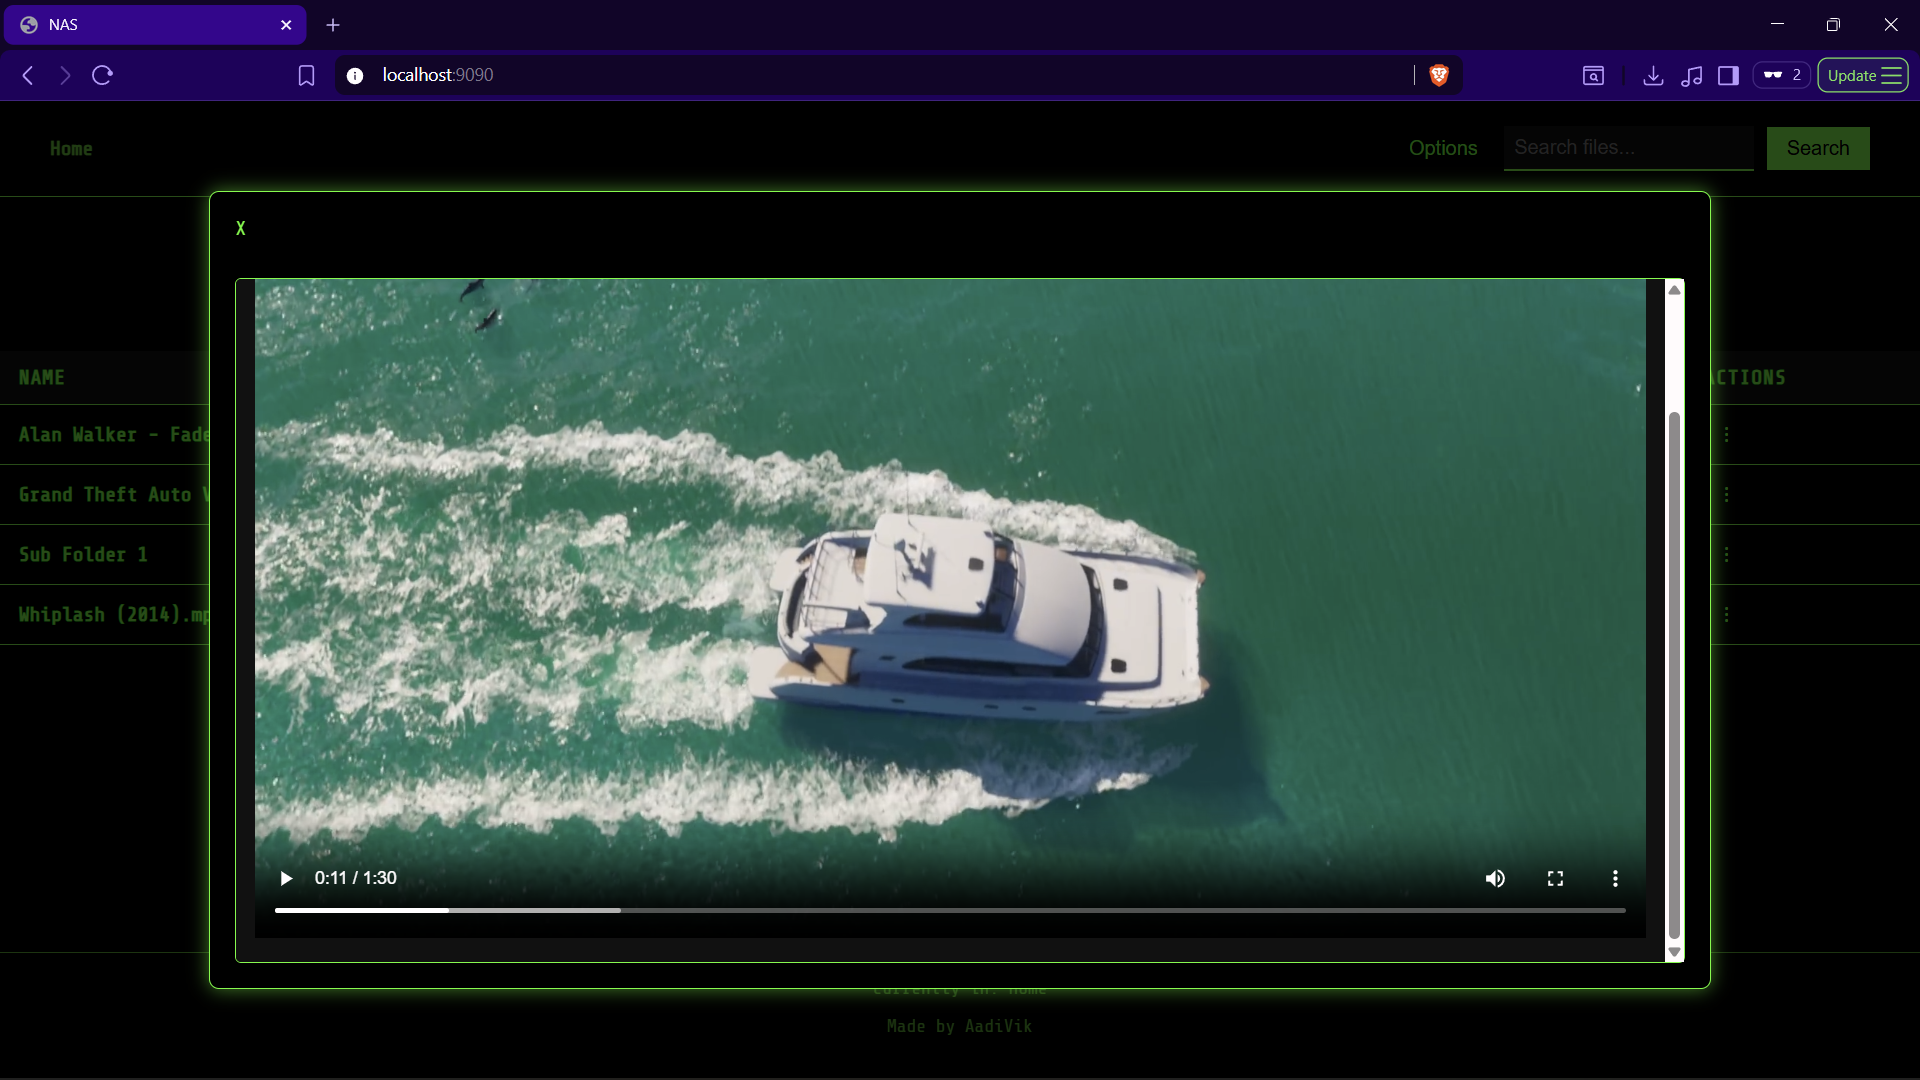
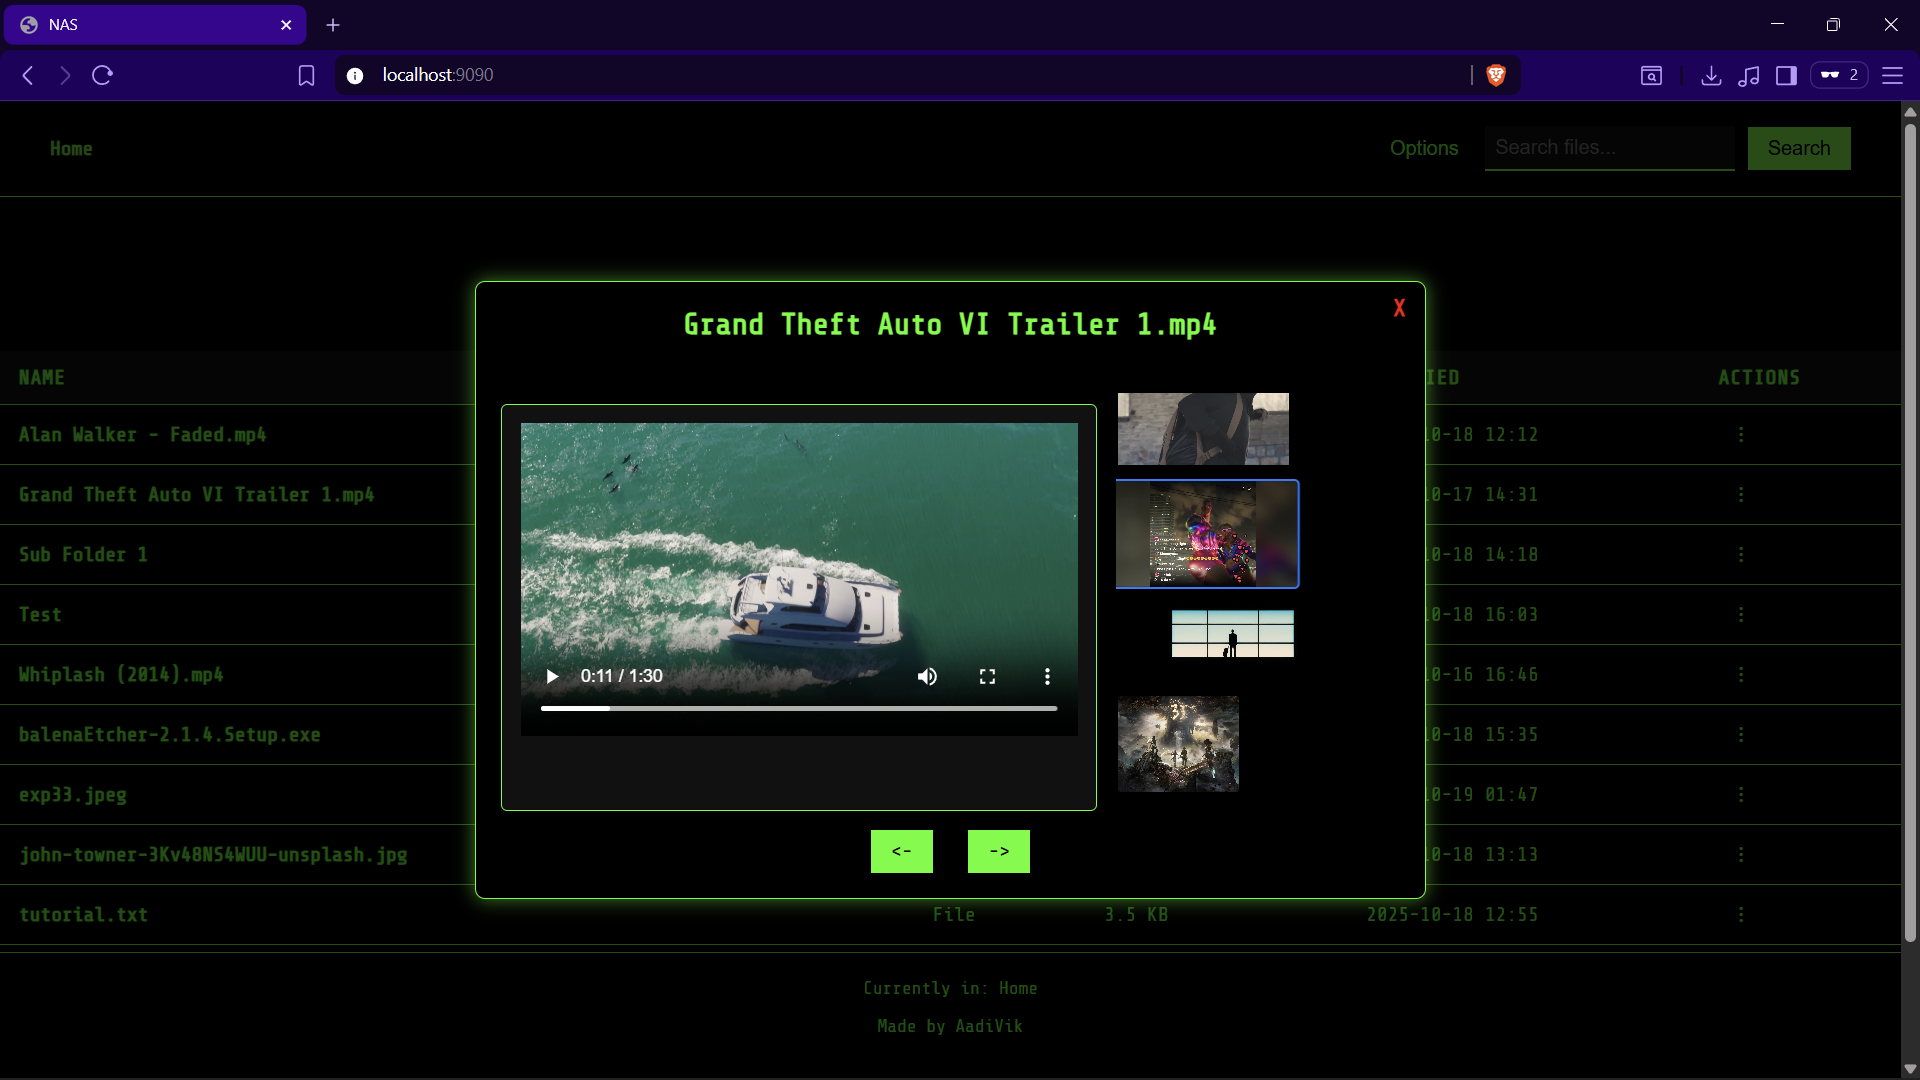
Updated README md file with thumbnail preview info

diff --git a/README.md b/README.md
@@ -13,7 +13,7 @@ Network Attached Storage on a Python server running in Ubuntu
 - Download and delete file
 - Download folder as zip and delete
 - Delete file and folder
-- Preview Files
+- Preview Files with navigation and thumbnail preview for images and videos
 - Range request for video display to enable seek forward or jump to a timeline
 
 ## Steps
@@ -86,11 +86,11 @@ Network Attached Storage on a Python server running in Ubuntu
 
 ![Delete_Functionality](assets/Delete_Functionality.png)
 
-## Preview Functionality (Video)
+## Preview Functionality (Video) with Navigation and Preview
 
 ![Preview_Functionality_Video](assets/Preview_Functionality_Video.png)
 
-## Preview Functionality (Image) with Navigation
+## Preview Functionality (Image) with Navigation and Preview
 
 ![Preview_Functionality_Image](assets/Preview_Functionality_Image.png)
 
